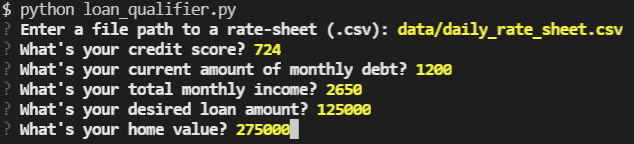
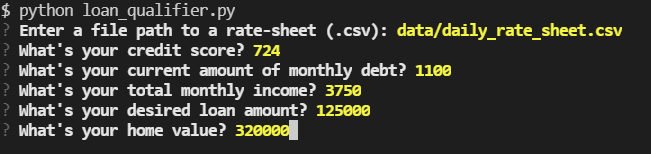
finished usage section of readme with images

Changed region(s): [[0.0, 0.2778, 0.7192, 0.9722], [0.0, 0.0, 0.989, 0.2778]]

diff --git a/README.md b/README.md
@@ -1,4 +1,4 @@
-# Loan Qualifier Challenge 2
+# Loan Qualifier
 
 This is an app for evaluating loan opportunities based on the criteria of a collection of banks.  
 A user would be able to input their financial information and be offered a list of banks where they would qualify for their desired loan.  
@@ -44,6 +44,18 @@ For the purposes of this assignment, the bank info is located in *data/daily_rat
 Next the user will be asked to input their own financial information.
 
 ![user-info](/images/readme_user_info.PNG)
+
+The app then calculates and reports the users monthly debt-to-income ratio and their loan-to-home-value ratio.  
+After scanning the list of banks along with their criteria, the app reports a list of banks where the user is qualified for their desired loan.  
+Then the user is asked whether they would like to save this data in a more easy to read format.  
+
+![data-output](/images/readme_raw_data_output.PNG)
+
+If the user selected 'Yes', the app then asks the user where they would like to save their .csv file.  
+
+![where-to-save](/images/readme_where_to_save.PNG)
+
+With the file saved, the app closes itself in the terminal.
 
 
 
